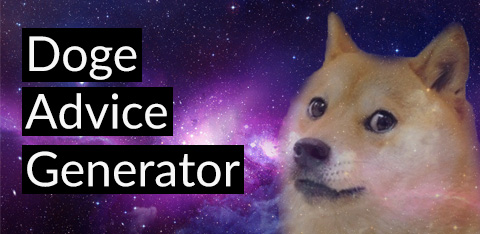
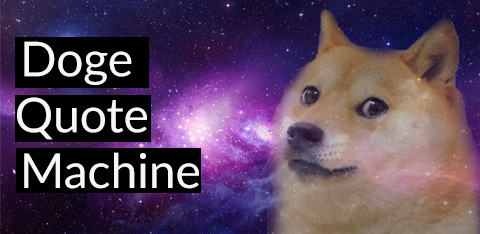
New quote machine. Structure folder. Other fixes.

diff --git a/scripts/rndmquote-script.js b/scripts/rndmquote-script.js
@@ -1,0 +1,47 @@
+$(document).ready(function(){
+	// It decodes html element into plain text. Had to use is, due to input format.
+	var decodeEntities = (function() {
+  // this prevents any overhead from creating the object each time
+  var element = document.createElement('div');
+
+  function decodeHTMLEntities (str) {
+    if(str && typeof str === 'string') {
+      // strip script/html tags
+      str = str.replace(/<script[^>]*>([\S\s]*?)<\/script>/gmi, '');
+      str = str.replace(/<\/?\w(?:[^"'>]|"[^"]*"|'[^']*')*>/gmi, '');
+      element.innerHTML = str;
+      str = element.textContent;
+      element.textContent = '';
+    }
+
+    return str;
+  }
+
+  return decodeHTMLEntities;
+})();
+	// I don't use some functionality right now, but I'll probably use it in future
+	function getQuote() { $.ajax( {
+      url: 'https://quotesondesign.com/wp-json/posts?filter[orderby]=rand&filter[posts_per_page]=1',
+      success: function(data) {
+        var post = data.shift(); // The data is an array of posts. Grab the first one.
+     //   $('#author').text(post.title);
+        $('#quote').html(post.content);
+				let plainText = decodeEntities(post.content)
+				$("#twitter-share").attr("href", "https://twitter.com/intent/tweet?text=" + encodeURI(plainText) + "&hashtags=freeCodeCamp,quotes");
+
+        // If the Source is available, use it. Otherwise hide it.
+				/*
+        if (typeof post.custom_meta !== 'undefined' && typeof post.custom_meta.Source !== 'undefined') {
+          $('#quote-source').html('Source:' + post.custom_meta.Source);
+        } else {
+          $('#quote-source').text('');
+        } */
+      },
+      cache: false
+    }); }
+	getQuote();
+	$('#reset-btn').on('click', function(e) {
+    e.preventDefault();
+    getQuote();
+  });
+});

diff --git a/rndmquote.html b/rndmquote.html
@@ -12,7 +12,7 @@
 <link rel="mask-icon" href="favicons/safari-pinned-tab.svg" color="#2a2b2b">
 <meta name="theme-color" content="#ffffff">
 <!--end of favicons-->
-	<link href="https://fonts.googleapis.com/css?family=PT+Serif+Caption" rel="stylesheet">
+	<link href="https://fonts.googleapis.com/css?family=Abel" rel="stylesheet">
 	<link rel="stylesheet" href="rndmquote.css">
 	<script src="https://use.fontawesome.com/12e044e105.js"></script>
 	<script
@@ -20,29 +20,13 @@
 		integrity="sha256-hVVnYaiADRTO2PzUGmuLJr8BLUSjGIZsDYGmIJLv2b8="
 		crossorigin="anonymous">
 	</script>
-  <script>
-		$(document).ready(function(){
-			function getNewQuote() {	
-				$.get("http://fucking-great-advice.ru/api/random/censored/", function(data)		{
-						let quote = data.text
-						quote = quote.replace(/&nbsp;/gi, " ").replace(/&#151;/gi, "—")
-						$("#quote").text(quote);
-						$("#twitter-share").attr("href", "https://twitter.com/intent/tweet?text=" + encodeURI(quote) + "&hashtags=freeCodeCamp,quotes,great-advice");
-					}, "json")	
-			}
-			getNewQuote();
-			
-			$("#reset-btn").click(function(){
-        getNewQuote();
-		});
-		});
-	</script>
+	<script src="scripts/rndmquote-script.js" ></script>
 </head>
 <body>
 	<div class="machine">
 		<p id="quote"></p>
 		<div class="buttons">
-			<button type="button" id="reset-btn">New Quote</button>
+			<button autofocus type="button" id="reset-btn">New Quote</button>
 			<a id="twitter-share" target="_blank" href="#"><button type="button" id="twitter-btn"><i class="fa fa-twitter fa-lg"></i></button></a>
 		</div>
 	</div>

diff --git a/index.html b/index.html
@@ -107,6 +107,6 @@
 <!--		SCRIPTS -->
 	<script src="https://cdnjs.cloudflare.com/ajax/libs/jquery/3.1.0/jquery.min.js"></script>
 		<script src="https://maxcdn.bootstrapcdn.com/bootstrap/3.3.7/js/bootstrap.min.js" integrity="sha384-Tc5IQib027qvyjSMfHjOMaLkfuWVxZxUPnCJA7l2mCWNIpG9mGCD8wGNIcPD7Txa" crossorigin="anonymous"></script>
-		<script src="scripts.js"></script>
+		<script src="scripts/scripts.js"></script>
 	</body>
 </html>

diff --git a/rndmquote.css b/rndmquote.css
@@ -12,7 +12,7 @@ body {
 	//background: grey;
 	box-sizing: border-box;
 	font-size: 16px;
-	font-family: 'PT Serif Caption', serif;
+	font-family: 'Abel', sans-serif;
 }
 
 .machine {
@@ -26,7 +26,7 @@ body {
 }
 
 .machine p {
-	font-size: 4rem;
+	font-size: 3rem;
 	margin-bottom: 1rem;
 }
 

diff --git a/main.css b/main.css
@@ -26,7 +26,9 @@ hr {
 #hi {
 	color: #e8e119;
 }
-
+#hi:hover {
+	background-color: black;
+}
 .container .about {
 		font-size: 2rem;
 }
